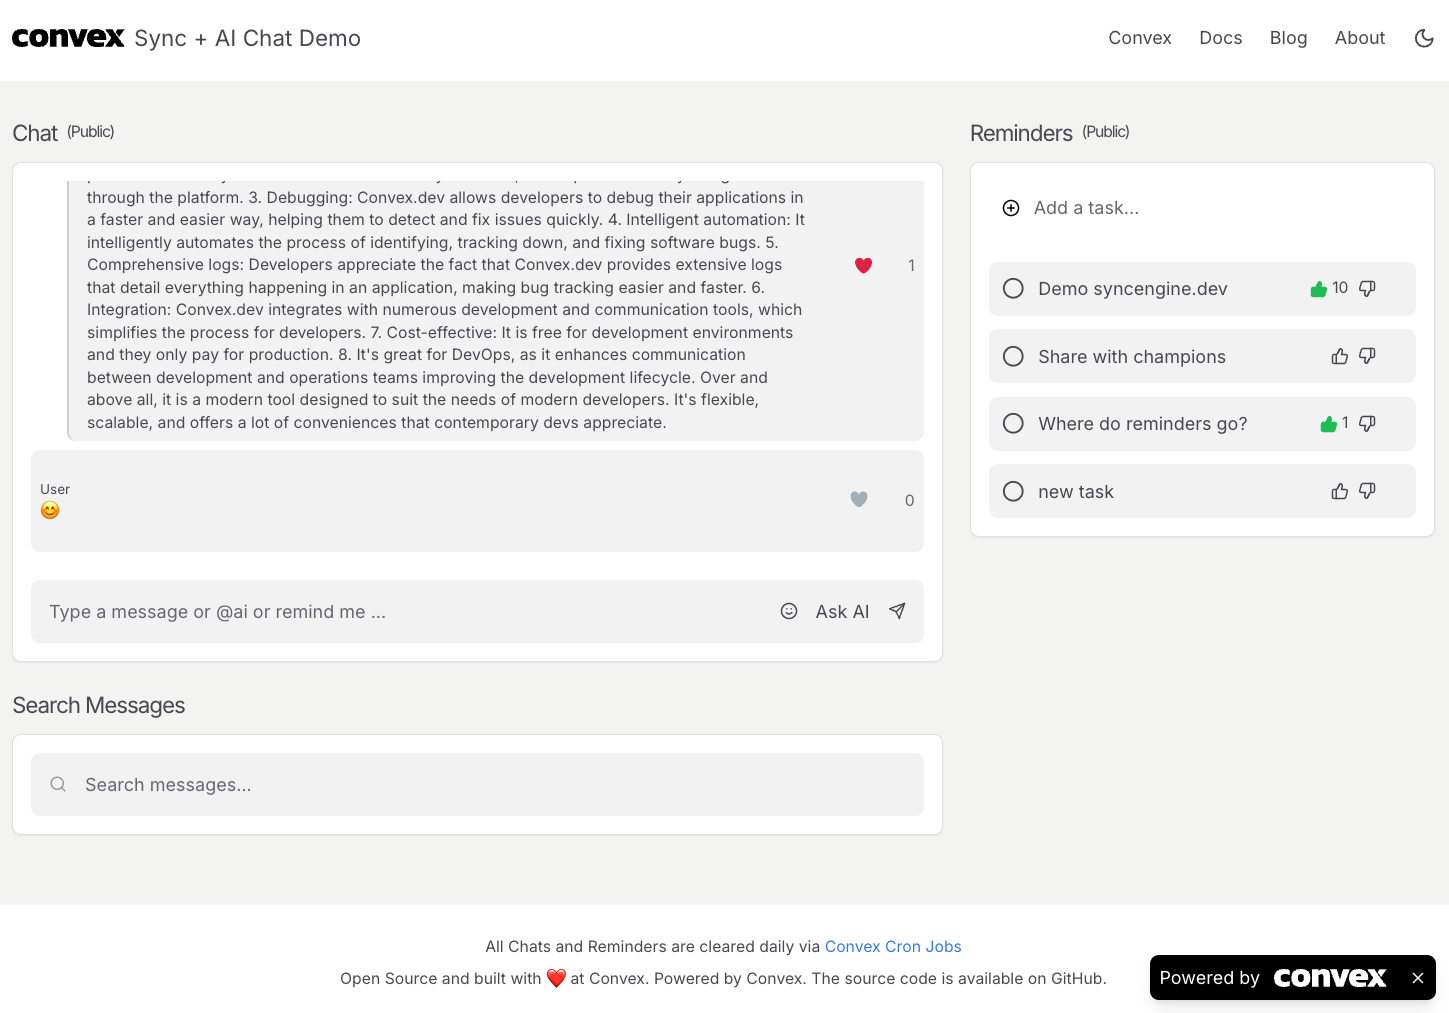
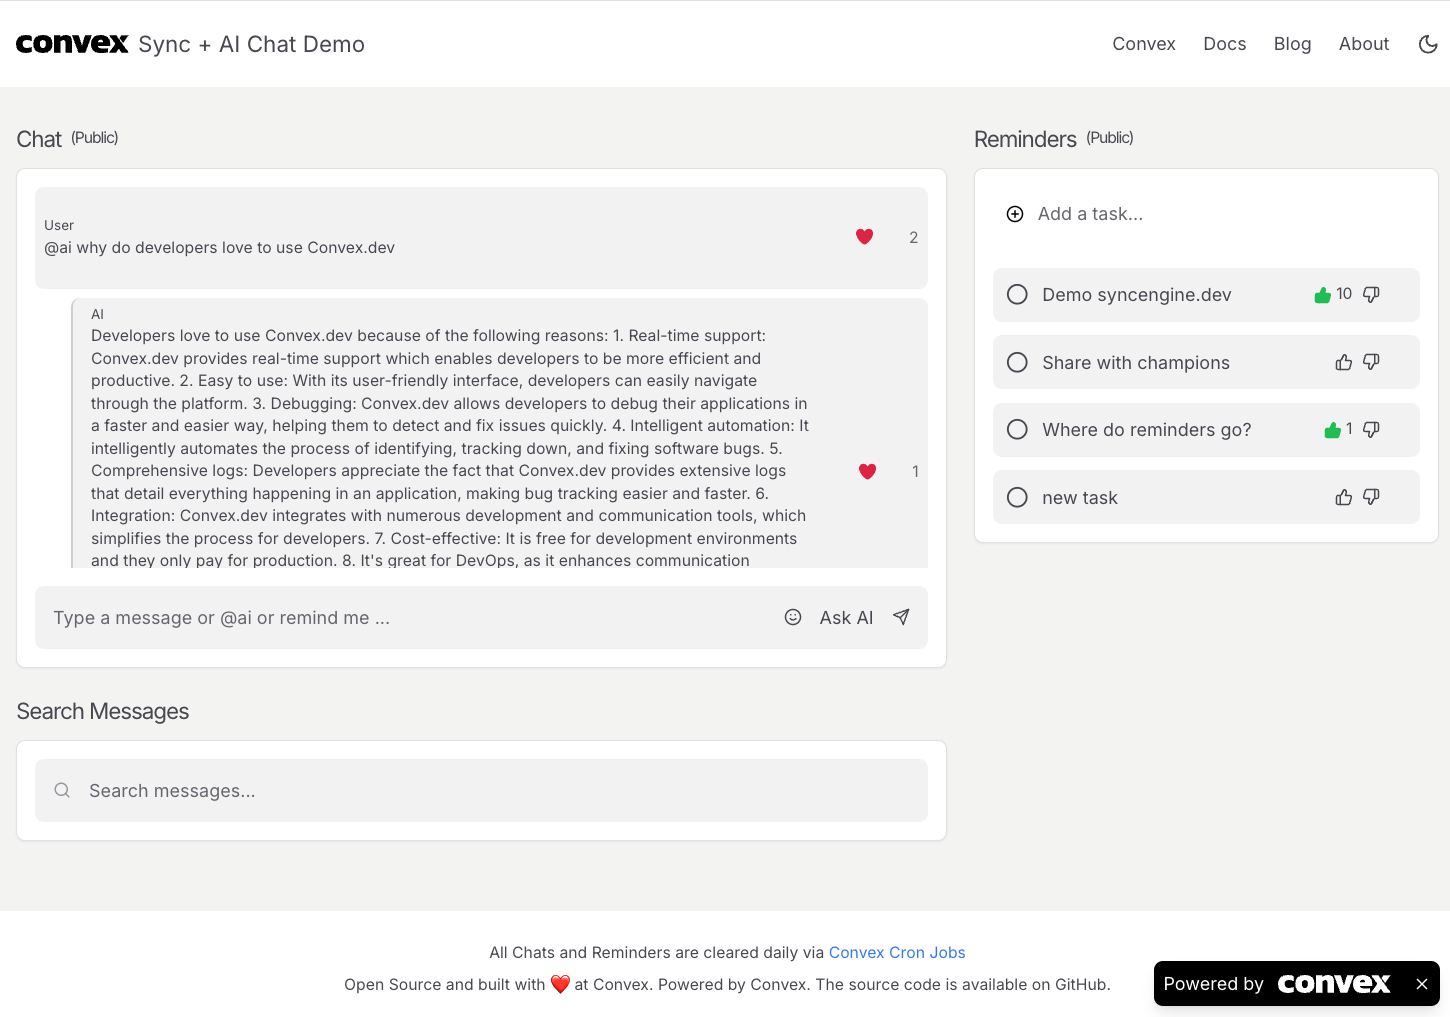
updated readme and footer links

diff --git a/src/App.tsx b/src/App.tsx
@@ -213,8 +213,8 @@ function MainApp() {
               href="https://convex.link/chatsynclinks"
               target="_blank"
               rel="noopener noreferrer"
-              className="text-sm md:text-xl">
-              Sync + AI Chat Demo
+              className="text-sm md:text-lg">
+              AI Chat & ToDo List Sync App
             </a>
           </h1>
 
@@ -491,7 +491,7 @@ function MainApp() {
           <div className="flex-1">
             <h2
               className={`text-xl font-normal mb-3 tracking-tighter ${iconClasses} flex items-center gap-2`}>
-              Reminders
+              ToDo List
               <span className="text-sm">(Public)</span>
             </h2>
             <div
@@ -602,7 +602,7 @@ function MainApp() {
               Convex Cron Jobs
             </a>
           </p>
-          <p className={`${iconClasses} text-sm`}>
+          <p className={`${iconClasses} text-sm flex items-center justify-center gap-1`}>
             Open Source and built with ❤ at{" "}
             <a
               href="https://convex.link/chatsynclinks"
@@ -611,20 +611,14 @@ function MainApp() {
               className="hover:opacity-80 transition-opacity">
               Convex
             </a>
-            . Powered by{" "}
-            <a
-              href="https://convex.link/chatsynclinks"
-              target="_blank"
-              rel="noopener noreferrer"
-              className="hover:opacity-80 transition-opacity">
-              Convex
-            </a>
-            . The source code is available on{" "}
+            .{" "}
             <a
               href="https://github.com/waynesutton/todohosted"
               target="_blank"
-              rel="noopener noreferrer">
-              GitHub
+              rel="noopener noreferrer"
+              className="hover:opacity-80 transition-opacity flex items-center gap-1">
+              <Github className="w-4 h-4" />
+              The source code is available on GitHub
             </a>
             .
           </p>

diff --git a/README.md b/README.md
@@ -1,4 +1,4 @@
-# Convex Realtime Chat & Reminders with AI Demo Sync App
+# Realtime AI Chat & ToDo List Sync App on Convex
 
 An open source chat and reminder application built with [Convex](https://convex.link/chatsynclinks), Clerk, and React. This application features real-time chat, task management, and an administrative dashboard for moderation.
 
